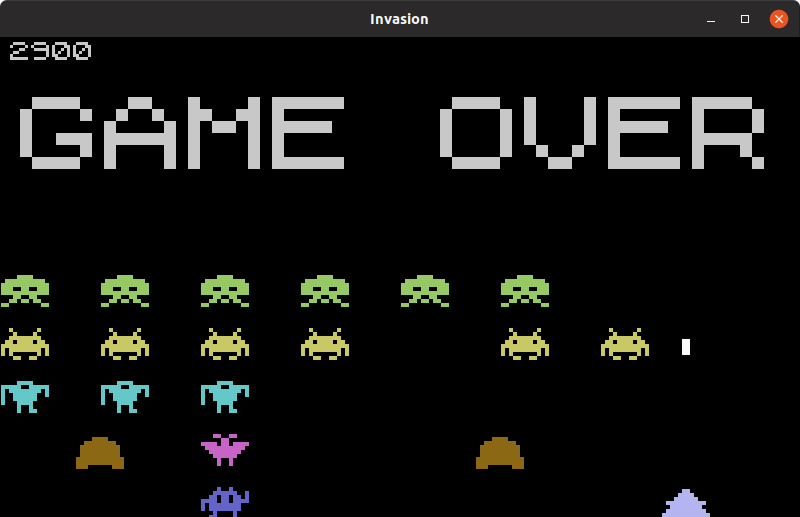
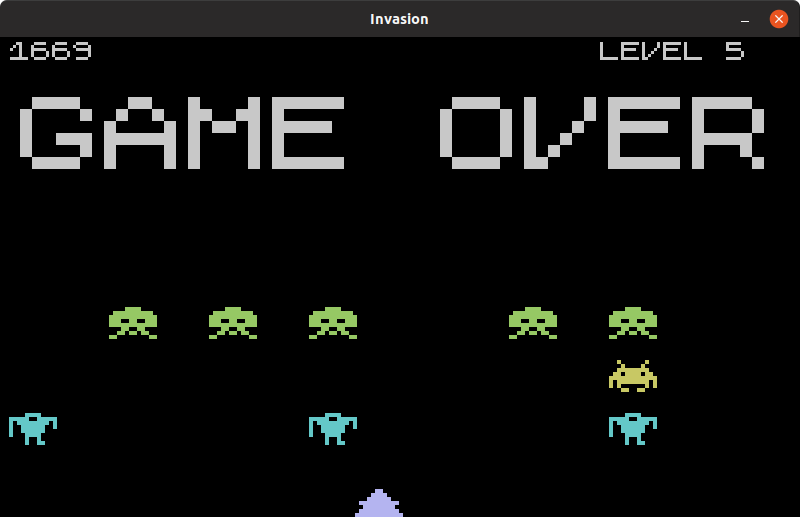
Minor updates

diff --git a/games/invasion.py b/games/invasion.py
@@ -22,12 +22,10 @@ change-log:
     Added: Starting a new game.
 """
 
-import math
 import pygame
 from pygame.locals import *
 import random
 from tools.timer import Timer
-import time
 
 
 class Invasion:
@@ -41,26 +39,18 @@ class Invasion:
                                     HWSURFACE | SRCALPHA, 32)
         self.space.convert_alpha()
         self.running = True
-        self.alien_value = 100
-        self.pad_acceleration = 1
-        self.court_side = 1
         self.ship = Ship(self.space)
         self.shoot_timer = Timer(50)
         self.march_timer = Timer(1)
         self.reset()
 
-    def size_reset(self):
-        # Discover new size factor
-        x_factor = self.screen.get_size()[0] / self.screen_size[0]
-        y_factor = self.screen.get_size()[1] / self.screen_size[1]
-        self.size_set()
-        self.ship.screen_reset()
-
     def set(self):
-        self.burst = set()
+        self.ship_burst = set()
+        self.alien_burst = set()
         self.walls = set()
         self.aliens = set()
         self.explosions = set()
+        self.alien_burst_seed = 2000
         self.march_period = self.start_march_period
         self.march_timer.set(self.march_period)
         self.way = True
@@ -70,11 +60,12 @@ class Invasion:
         self.aliens_deploy()
 
     def reset(self):
-        self.level = 1
-        self.lives = 3
+        self.level = 0
+        self.lives = 2
         self.score = 0
         self.start_march_period = 600
         self.set()
+        self.level_up()
 
     def run(self):
         # Draw Space
@@ -83,10 +74,10 @@ class Invasion:
         self.score_update()
         self.burst_update()
         self.walls_update()
-        self.aliens_update()
         self.ship.update()
+        self.aliens_update()
         self.explosions_update()
-        self.check_collision()
+        self.collision_check()
         self.aliens_check()
         self.lives_check()
         # Join everything
@@ -97,17 +88,17 @@ class Invasion:
         if self.lives == 0:
             self.game_over()
 
-    def check_collision(self):
+    def collision_check(self):
         # Missle againt Alien
         for i in self.aliens:
-            for j in self.burst:
+            for j in self.ship_burst:
                 if i.get_rect().colliderect(j.get_rect()):
                     position = i.get_position()
                     explosion = Explosion(self.space, position)
                     self.explosions.add(explosion)
+                    self.score += i.get_points()
                     self.aliens.remove(i)
-                    self.burst.remove(j)
-                    self.score += self.alien_value
+                    self.ship_burst.remove(j)
                     return
         # Alien againt Wall
         for i in self.aliens:
@@ -135,22 +126,25 @@ class Invasion:
                 self.lives -= 1
                 return
         # Ship againt Missle
-        for i in self.burst:
+        for i in self.alien_burst:
             if i.get_rect().colliderect(self.ship.get_rect()):
                 position = self.ship.get_position()
                 explosion = Explosion(self.space, position)
                 self.explosions.add(explosion)
+                self.alien_burst.remove(i)
                 self.lives -= 1
                 return
 
     def burst_update(self):
         # Update position
-        for i in self.burst:
+        for i in self.ship_burst:
+            i.update()
+        for i in self.alien_burst:
             i.update()
         # Check shoot age
-        for i in self.burst:
+        for i in self.ship_burst:
             if i.is_out():
-                self.burst.remove(i)
+                self.ship_burst.remove(i)
                 break
 
     def aliens_deploy(self):
@@ -158,16 +152,21 @@ class Invasion:
         for y in range(formation[1]):
             for x in range(formation[0]):
                 monster = Monster(self.space, y,
-                                  [(self.space.get_size()[0] /
+                                  [(self.screen_size[0] /
                                     formation[0]) * x +
-                                   (self.space.get_size()[0] /
+                                   (self.screen_size[0] /
                                     formation[0]) / 3,
-                                   ((self.space.get_size()[1] /
+                                   ((self.screen_size[1] /
                                     (formation[1] + 3) * y)) + 30],
                                   [200, 200, 200])
                 self.aliens.add(monster)
 
     def aliens_update(self):
+        # Update
+        for i in self.aliens:
+            i.update()
+        if self.lives == 0:
+            return
         if self.march_timer.check():
             # Aliens lateral boundaries
             for i in self.aliens:
@@ -187,15 +186,22 @@ class Invasion:
             if i.get_position()[1] + i.get_size()[1] >= self.screen_size[1]:
                 self.game_over()
                 break
-        # Update
+        # Fire
         for i in self.aliens:
             i.update()
+            if random.randrange(self.alien_burst_seed) == 1:
+                shoot = Missile(self.space,
+                                i.get_position(), i.get_radius(), 4, -1)
+                self.alien_burst.add(shoot)
+                break
 
     def game_over(self):
         self.ship.stop()
         for i in self.aliens:
             i.stop()
-        for i in self.burst:
+        for i in self.ship_burst:
+            i.stop()
+        for i in self.alien_burst:
             i.stop()
         echo(self.space, "GAME OVER", 12, [20, 60])
 
@@ -205,9 +211,9 @@ class Invasion:
 
     def level_up(self):
         self.level += 1
+        self.lives += 1
+        self.alien_burst_seed -= self.level * 100
         self.start_march_period -= self.start_march_period * self.level / 20
-        echo(self.space, "LEVEL " + str(self.level), 15, [100, 200])
-        time.sleep(2)
         self.set()
 
     def walls_deploy(self):
@@ -224,6 +230,8 @@ class Invasion:
 
     def score_update(self):
         echo(self.space, str(self.score), 3, [10, 5])
+        echo(self.space, str(self.lives), 3, [380, 5])
+        echo(self.space, "LEVEL " + str(self.level), 3, [600, 5])
 
     def explosions_update(self):
         for i in self.explosions:
@@ -241,12 +249,12 @@ class Invasion:
         if not self.shoot_timer.check():
             return
         # Limit burst size
-        if len(self.burst) >= 1:
+        if len(self.ship_burst) >= 1:
             return
         # Shoot!
         shoot = Missile(self.space,
                         self.ship.get_position(), self.ship.get_radius(), 5)
-        self.burst.add(shoot)
+        self.ship_burst.add(shoot)
 
     def control(self, keys):
         if K_ESCAPE in keys:
@@ -328,13 +336,13 @@ class Ship:
 
 
 class Missile:
-    def __init__(self, screen, ship_position, offset, speed):
+    def __init__(self, screen, ship_position, offset, speed, direction=1):
         self.screen = screen
         self.screen_size = [self.screen.get_size()[0],
                             self.screen.get_size()[1]]
         self.out = False
-        self.speed = speed
         self.size = [8, 16]
+        self.speed = speed * direction
         self.color = (250, 250, 250)
         sprite = (
             "##",
@@ -345,8 +353,12 @@ class Missile:
         position = ship_position
         self.shape = pygame.Surface(self.size, SRCALPHA)
         draw(self.shape, sprite, self.color, 4)
-        self.position = [ship_position[0] + offset - self.size[0] / 2,
-                         ship_position[1] - self.size[1]]
+        if direction == 1:
+            self.position = [ship_position[0] + offset - self.size[0] / 2,
+                             ship_position[1] - self.size[1]]
+        elif direction == -1:
+            self.position = [ship_position[0] + offset - self.size[0] / 2,
+                             ship_position[1] + self.size[1] + 20]
         self.enable = True
         self.update()
 
@@ -383,7 +395,9 @@ class Monster:
         self.color = self.color(aspect % 6)
         self.shape = pygame.Surface(self.size, SRCALPHA)
         self.caray = 0
+        self.radius = self.shape.get_rect().center[0]
         draw(self.shape, self.alien[0], self.color, 4)
+        self.points = 10 - aspect
         self.enable = True
         self.update()
 
@@ -594,8 +608,14 @@ class Monster:
     def get_position(self):
         return self.position
 
+    def get_radius(self):
+        return self.radius
+
     def get_size(self):
         return self.size
+
+    def get_points(self):
+        return self.points
 
     def get_rect(self):
         return self.rect
@@ -927,10 +947,10 @@ def echo(screen, string, size, position):
         ), (
         "#    # ",
         "#    # ",
-        "#    # ",
-        "#    # ",
-        " #  #  ",
-        "  ##   ",
+        "#   #  ",
+        "#  #   ",
+        "# #    ",
+        "##     ",
         ), (
         "#    # ",
         "#    # ",

diff --git a/marcade.py b/marcade.py
@@ -39,6 +39,7 @@ class UserArgumentParser():
         self.program_website = "https://github.com/marcio-pessoa/marcade"
         self.program_contact = "Marcio Pessoa <marcio.pessoa@gmail.com>"
         self.window_title = self.program_description
+        self.resizeable = False
         self.available_games = ["rocks", "invasion", "pongue"]
         header = ('marcade <game> [<args>]\n\n' +
                   'Games:\n' +
@@ -94,10 +95,15 @@ class UserArgumentParser():
         self.clock = pygame.time.Clock()
 
     def __screen_reset(self):
-        self.screen = pygame.display.set_mode(self.canvas_size,
-                                              HWSURFACE |
-                                              DOUBLEBUF |
-                                              RESIZABLE)
+        if self.resizeable:
+            self.screen = pygame.display.set_mode(self.canvas_size,
+                                                  HWSURFACE |
+                                                  DOUBLEBUF |
+                                                  RESIZABLE)
+        else:
+            self.screen = pygame.display.set_mode(self.canvas_size,
+                                                  HWSURFACE |
+                                                  DOUBLEBUF)
 
     def __run(self):
         while self.running:
@@ -134,6 +140,7 @@ class UserArgumentParser():
             description='based on classic Pong')
         args = parser.parse_args(sys.argv[2:])
         self.window_title = 'Pongue'
+        self.resizeable = True
         self.__screen_start()
         self.game = Pongue(self.screen)
         self.game.start()

diff --git a/Documents/invasion.md b/Documents/invasion.md
@@ -14,12 +14,42 @@ To start game:
 
 ## Characters
 
+### Bublebulb
+![Bublebulb](Pictures/Bublebulb.png)
+- Name: Bublebulb
+- Points: 10
+
+### Craby
+![Craby](Pictures/Craby.png)
+- Name: Craby
+- Points: 9
+
+### ThreeNeeTee
+![ThreeNeeTee](Pictures/ThreeNeeTee.png)
+- Name: ThreeNeeTee
+- Points: 8
+
+### Pobah
+![Pobah](Pictures/Pobah.png)
+- Name: Pobah
+- Points: 7
+
+### Androeed
+![Androeed](Pictures/Androeed.png)
+- Name: Androeed
+- Points: 6
+
+### Raken
+![Raken](Pictures/Raken.png)
+- Name: Raken
+- Points: 5
+
 ## Contributors
 
 ### Developers
 - [Márcio Pessoa](https://github.com/marcio-pessoa)
 
-### Designers:
+### Designers
 - Nicolas Masaishi Oi Pessoa <masaishi.pessoa@gmail.com>
 - Gustavo Nuzzo Gass <gustavonuzzogass@gmail.com>
 - [Márcio Pessoa](https://github.com/marcio-pessoa)
@@ -35,4 +65,4 @@ Changes and improvements are more than welcome! Feel free to fork and open a pul
 Licensed under the [GPLv2](LICENSE).
 
 ## Donations
-I made this in my spare time, and it's hosted on GitHub (which means I don't have any hosting costs), but if you enjoyed the game and feel like buying me coffee, you can donate at my PayPal: `marcio.pessoa@gmail.com`. Thank you very much!
+I made this in my spare time, and it's hosted on GitHub (which means I don't have any hosting costs), but if you enjoyed the game and feel like buying me coffee, you can donate at my PayPal: marcio.pessoa@gmail.com. Thank you very much!

diff --git a/Documents/pongue.md b/Documents/pongue.md
@@ -21,4 +21,4 @@ Changes and improvements are more than welcome! Feel free to fork and open a pul
 Licensed under the [GPLv2](LICENSE).
 
 ## Donations
-I made this in my spare time, and it's hosted on GitHub (which means I don't have any hosting costs), but if you enjoyed the game and feel like buying me coffee, you can donate at my PayPal: `marcio.pessoa@gmail.com`. Thank you very much!
+I made this in my spare time, and it's hosted on GitHub (which means I don't have any hosting costs), but if you enjoyed the game and feel like buying me coffee, you can donate at my PayPal: marcio.pessoa@gmail.com. Thank you very much!

diff --git a/Documents/rocks.md b/Documents/rocks.md
@@ -21,4 +21,4 @@ Changes and improvements are more than welcome! Feel free to fork and open a pul
 Licensed under the [GPLv2](LICENSE).
 
 ## Donations
-I made this in my spare time, and it's hosted on GitHub (which means I don't have any hosting costs), but if you enjoyed the game and feel like buying me coffee, you can donate at my PayPal: `marcio.pessoa@gmail.com`. Thank you very much!
+I made this in my spare time, and it's hosted on GitHub (which means I don't have any hosting costs), but if you enjoyed the game and feel like buying me coffee, you can donate at my PayPal: marcio.pessoa@gmail.com. Thank you very much!

diff --git a/README.md b/README.md
@@ -36,4 +36,4 @@ Changes and improvements are more than welcome! Feel free to fork and open a pul
 Licensed under the [GPLv2](LICENSE).
 
 ## Donations
-I made this in my spare time, and it's hosted on GitHub (which means I don't have any hosting costs), but if you enjoyed the game and feel like buying me coffee, you can donate at my PayPal: `marcio.pessoa@gmail.com`. Thank you very much!
+I made this in my spare time, and it's hosted on GitHub (which means I don't have any hosting costs), but if you enjoyed the game and feel like buying me coffee, you can donate at my PayPal: marcio.pessoa@gmail.com. Thank you very much!
